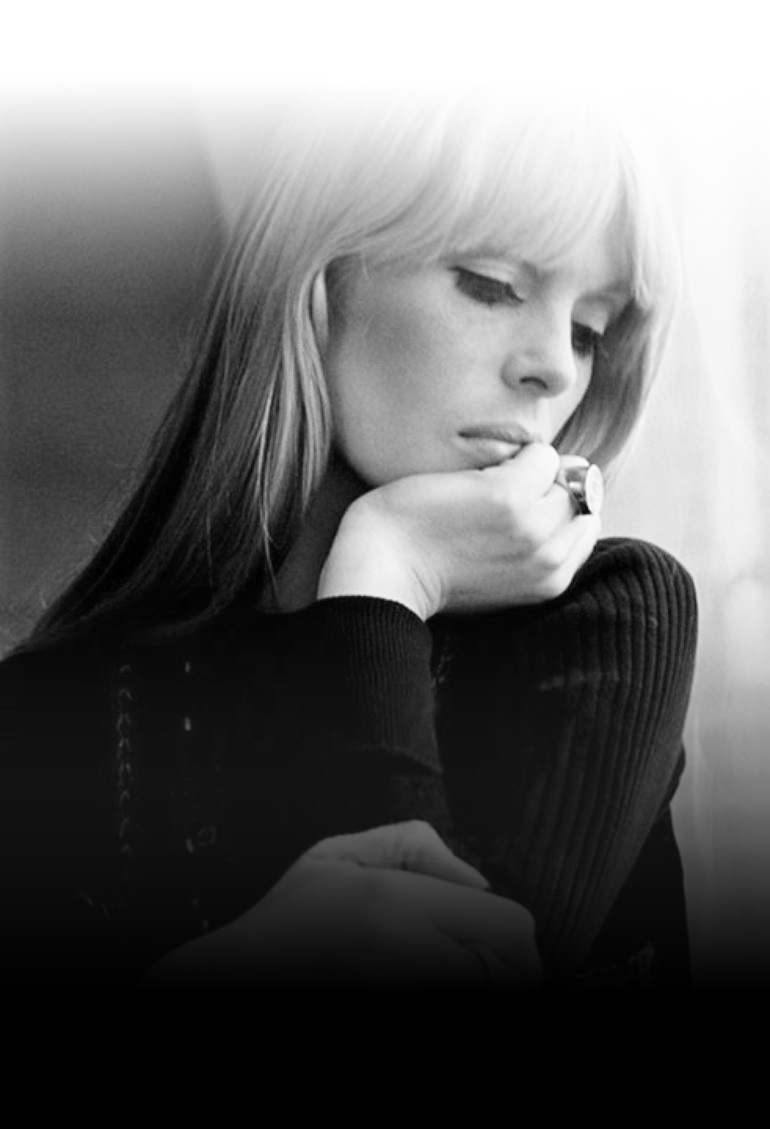
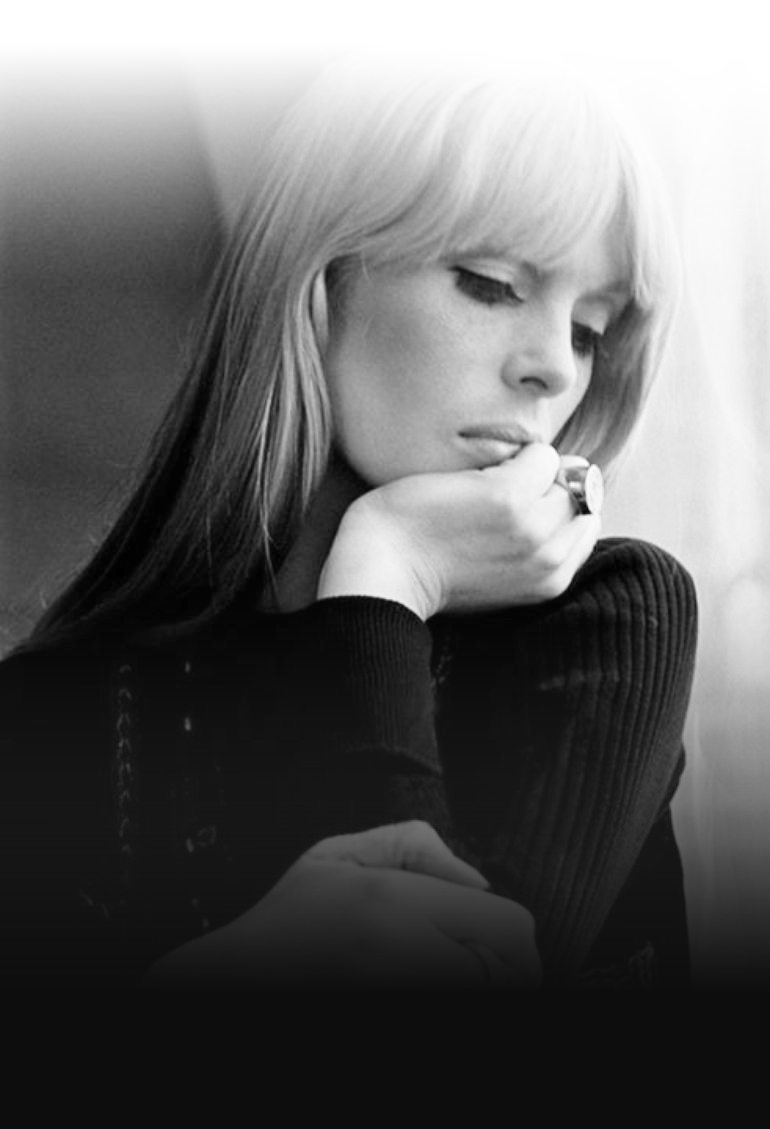
nog een paar details aangepast

Changed region(s): [[0.0, 0.062, 0.5922, 0.248], [0.5922, 0.217, 0.6234, 0.248]]

diff --git a/src/css/style.css b/src/css/style.css
@@ -3,7 +3,9 @@
 :root {
   --blue: #292eba;
   --pink: #e64f60;
-  --yellow: #f4ac48;
+  --yellow: #ffa624;
+  --grey: #323232;
+  --light_grey: #cbcbcb;
 }
 
 body {
@@ -28,8 +30,9 @@ header {
   line-height: 110%;
   background-color: white;
   position: absolute;
-  bottom: 14rem;
-  margin-left: -8rem;
+  bottom: 10rem;
+  margin-left: -17.4rem;
+  padding: 1.2rem;
 }
 
 .header-wrapper {
@@ -77,6 +80,15 @@ header {
   z-index: -1;
 }
 
+.druip3 {
+  background-image: url(../assets/img/druip3.png);
+  width: 110.4rem;
+  height: 63rem;
+  position: absolute;
+  left: 0;
+  z-index: 1;
+}
+
 main {
   width: 100vw;
   display: flex;
@@ -95,6 +107,14 @@ main {
 
 .articlestyle {
   z-index: 9;
+  font-size: 1.7rem;
+  line-height: 2.8rem;
+  color: var(--grey);
+
+  strong {
+    font-weight: bold;
+    color: black;
+  }
 
   &::first-letter {
     color: var(--blue);
@@ -126,14 +146,15 @@ main {
 }
 
 .modelcite {
-  font-size: 3.5rem;
+  width: 65rem;
+  font-size: 3rem;
   line-height: 140%;
   font-family: times;
   font-weight: bold;
   font-style: italic;
   padding-left: 1rem;
-  border-left: 1rem solid var(--pink);
-  margin-top: 20rem;
+  border-left: .5rem solid var(--pink);
+  margin-top: -5rem;
   display: flex;
 }
 
@@ -206,13 +227,13 @@ h2 {
 
 .undergroundcite {
   width: 70rem;
-  font-size: 3.5rem;
+  font-size: 3rem;
   line-height: 140%;
   font-family: times;
   font-weight: bold;
   font-style: italic;
   padding-left: 1rem;
-  border-left: 1rem solid var(--pink);
+  border-left: .5rem solid var(--pink);
   display: flex;
   margin-top: 10rem;
 }
@@ -255,7 +276,7 @@ h2 {
 }
 
 .black {
-  background-color: black;
+  background-color: #0d0d0d;
   width: 100vw;
   display: flex;
   flex-direction: column;
@@ -264,8 +285,15 @@ h2 {
 }
 
 .articlestyle2 {
+  font-size: 1.7rem;
+  line-height: 2.8rem;
   z-index: 9;
-  color: white;
+  color: var(--light_grey);
+
+  strong {
+    color: white;
+    font-weight: bold;
+  }
 
   &::first-letter {
     color: var(--pink);
@@ -303,17 +331,17 @@ h2 {
 .solocite {
   width: 60rem;
   color: white;
-  font-size: 3.5rem;
+  font-size: 3rem;
   line-height: 140%;
   font-family: times;
   font-weight: bold;
   font-style: italic;
   padding-left: 1rem;
-  border-left: 1rem solid var(--pink);
+  border-left: .5rem solid var(--pink);
 }
 
 .endcite {
-  font-size: 3.5rem;
+  font-size: 3rem;
   line-height: 140%;
   font-family: times;
   font-weight: bold;
@@ -336,10 +364,6 @@ h2 {
 
 .quote {
   color: var(--yellow);
-}
-
-strong {
-  font-weight: bold;
 }
 
 .pink {

diff --git a/src/index.html b/src/index.html
@@ -36,9 +36,8 @@
         <cite class="introcite">“Nico, van fotomodel in wit broekpak <br/> tot verslaafde zwerfster”</cite>
         <div class="nico-headerimage"></div>
       </section>
+      <div class="druip3"></div>
     </header>
-
-    <div class="nico-image-1"></div>
 
     <main>
 
@@ -49,6 +48,12 @@
             <br/><br/>
             Ze werd geboren in <strong>1938</strong>, in het door de nazis geregeerde <strong>Duitsland</strong>. In 1960 werd ze een van de bekende <strong>Warhol</strong> superstars en zong ze vocals voor het debut album van <strong>the Velvet Undeground</strong> en haar werk als solo artieste. Ze acteerde ook in enkele films zoals Federico Fellini’s <strong>La Dolce Vita</strong> (1960) en Andy Warhol’s <strong>Chelsea Girls</strong> (1966).
         </article>
+
+      </section>
+
+        <div class="nico-image-1"></div>
+
+      <section class="content">
 
         <div class="modelsection">
 
